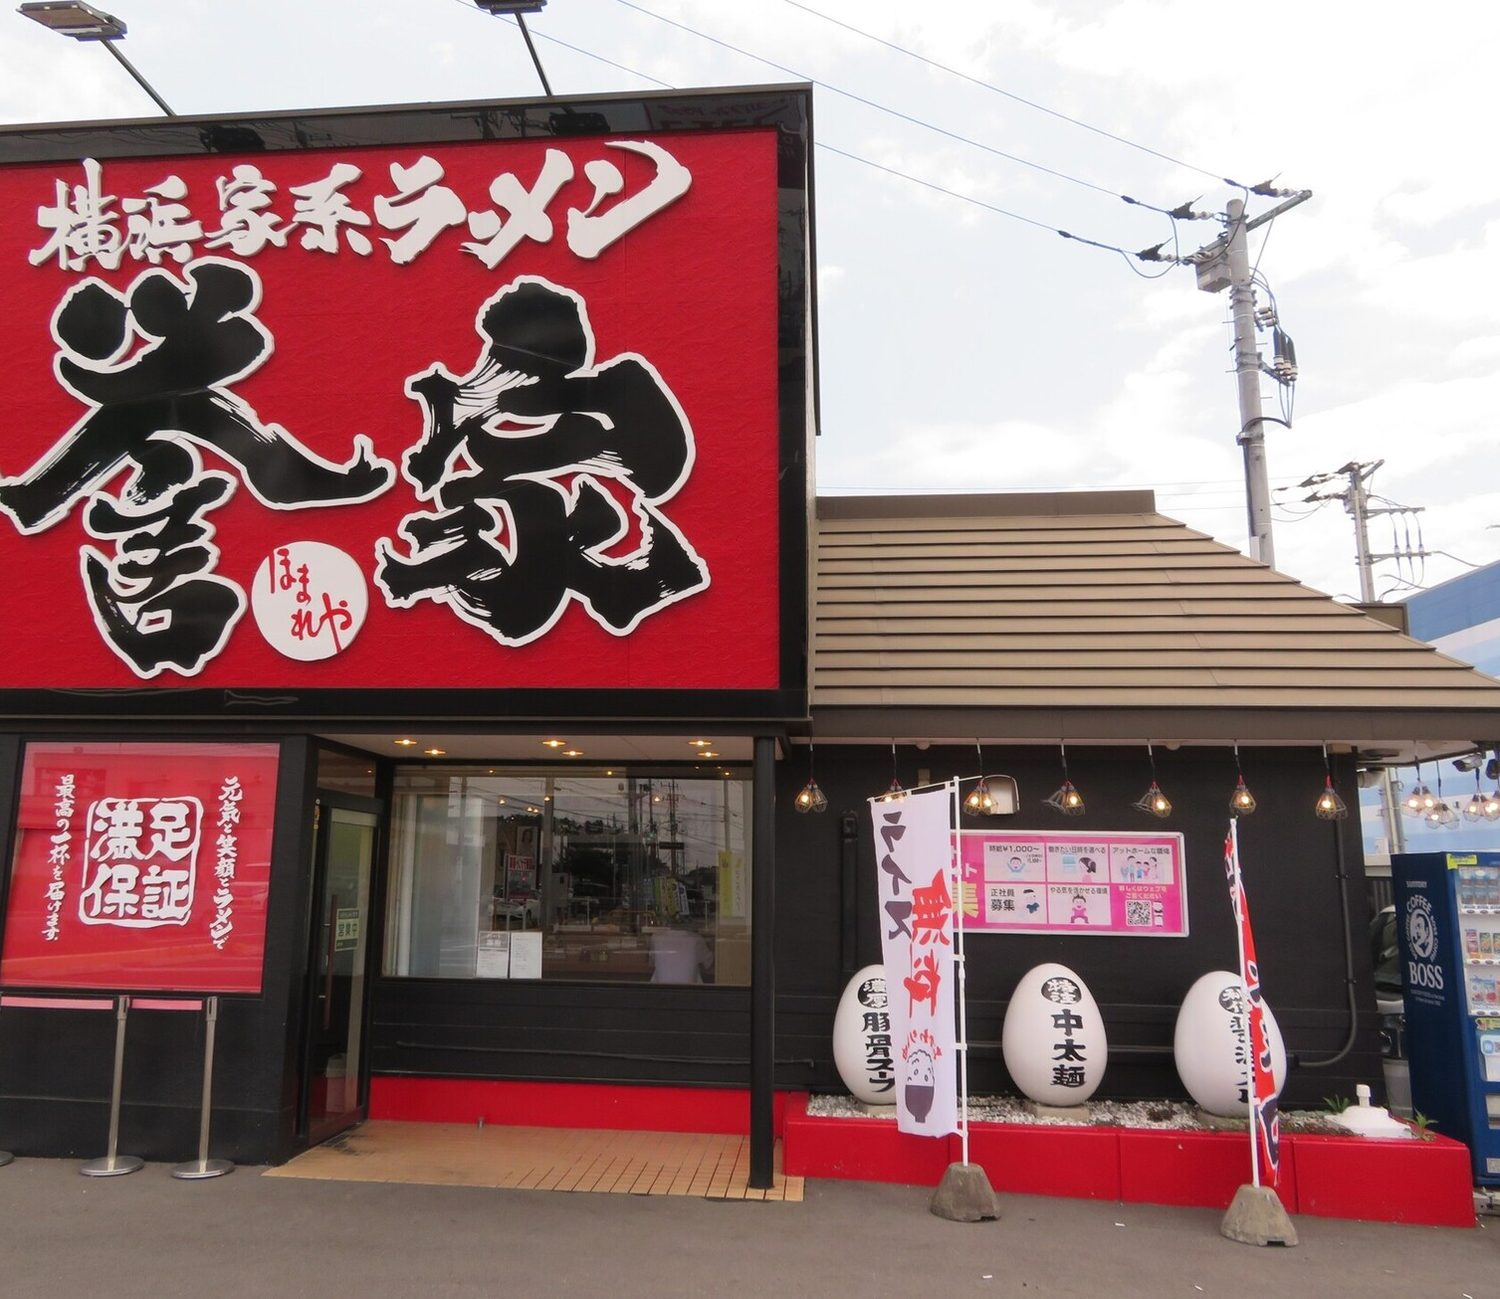
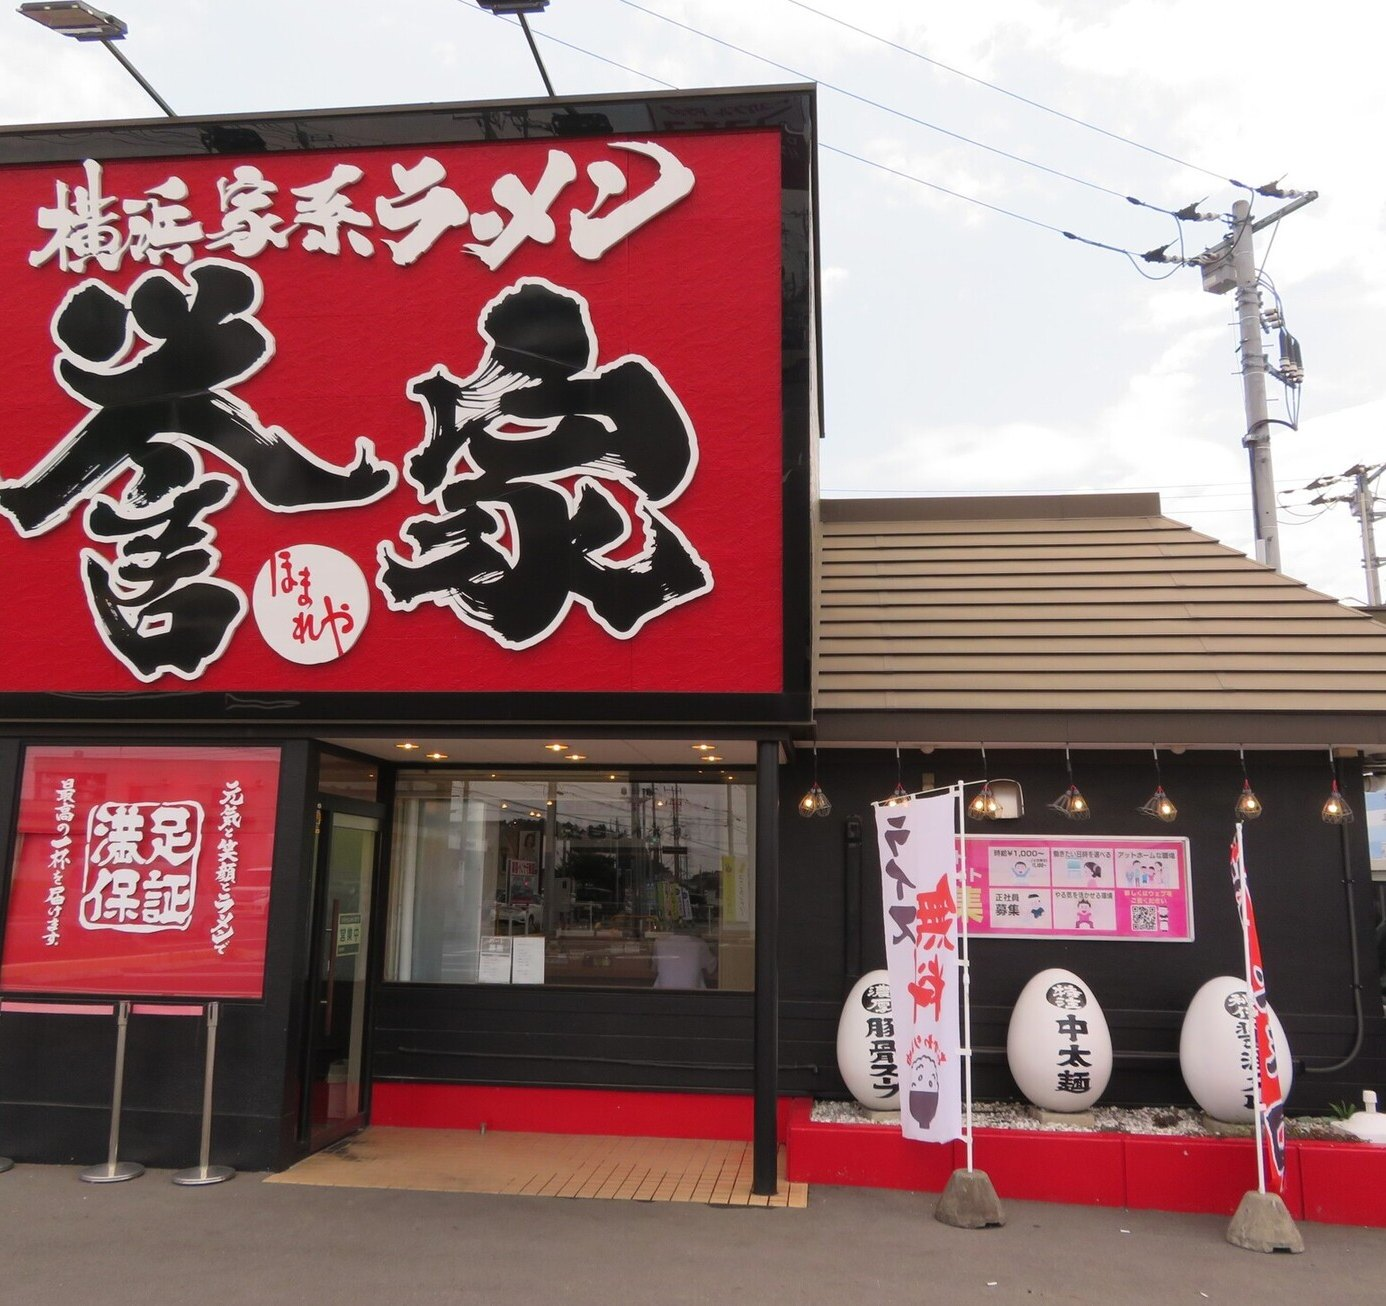
誉家: ヒーローの外観写真を本文の幅で止め、重ねていた小さな写真4枚を外した

diff --git a/homareya/index.html b/homareya/index.html
@@ -389,10 +389,10 @@
             var(--bg);
     }
     .hero-grid {
-        display: grid; grid-template-columns: minmax(0, 1fr) minmax(0, 1.02fr);
-        gap: clamp(24px, 4vw, 52px); align-items: center;
+        display: grid; grid-template-columns: minmax(0, 1fr) minmax(0, .94fr);
+        gap: clamp(24px, 4vw, 56px); align-items: stretch;
     }
-    .hero-copy { display: flex; flex-direction: column; align-items: flex-start; }
+    .hero-copy { display: flex; flex-direction: column; align-items: flex-start; justify-content: center; }
     .hero-title {
         font-family: var(--font-head); font-weight: 800;
         font-size: clamp(2.15rem, 8.6vw, 3.6rem); line-height: 1.24; letter-spacing: .02em;
@@ -417,33 +417,19 @@
     .chip b { color: var(--ink); font-weight: 700; }
     .hero-caution { margin-top: 14px; font-size: .84rem; color: var(--dim); max-width: 30em; }
     .hero .status-chip { background: var(--surface); box-shadow: var(--shadow-soft); }
+    .hero .status-chip + .eyebrow { margin-top: 18px; }
 
-    /* --- ヒーローの写真：外観を主役に、器は帯で添える ------------------------- */
+    /* --- ヒーローの写真：外観を1枚だけ、文章と同じ高さで ---------------------- */
     /* 店を探しているお客様がいちばん先に照らし合わせるのは看板と入口なので、
-       いちばん大きい面を外観にあて、料理は下に小さく重ねる。
-       写真はコンテナの右端から画面の右端まで抜く（body に overflow-x:hidden があるので安全）。 */
-    /* コンテナの右端から画面の右端までの距離。%を使うと段の幅を基準にしてしまうので、
-       画面幅とコンテナ幅だけで出す（横幅が狭いときは左右の余白と同じ値になる） */
-    .hero { --bleed: max(var(--pad-inner), calc((100vw - var(--maxw)) / 2)); }
-    .hero-shot { position: relative; margin-right: calc(-1 * var(--bleed)); }
-    .hero-shot .shot-frame {
-        height: clamp(430px, 66svh, 620px);
-        border-radius: var(--radius) 0 0 var(--radius);
-        border-right: 0;
-    }
-    /* 右端の自販機と電柱を落として、看板と入口を面の真ん中に置く */
-    .hero-shot .shot-frame img { object-position: 42% 54%; }
-
-    .hero-rail { position: absolute; left: clamp(-34px, -2.4vw, -14px); bottom: 20px;
-                 display: flex; gap: 10px; }
-    .hero-rail li { line-height: 0; }
-    .hero-rail img {
-        width: clamp(74px, 7.2vw, 104px); height: auto; aspect-ratio: 1;
-        object-fit: cover; border-radius: 10px;
-        border: 3px solid var(--bg); box-shadow: var(--shadow);
-    }
-    /* 卓上写真は上半分に赤黄のPOPが入るので、下の調味料側を見せる */
-    .hero-rail .rail-tab { object-position: 50% 100%; }
+       外観を1枚だけ置く。
+       ★写真の右端は本文の幅（--maxw）でそろえる。画面の右端まで抜くと、
+         広い画面ほど写真だけが伸びて見え、左の文章との釣り合いが崩れる。
+       高さは左の文章の段に合わせて伸ばし、上下の切り口を文章とそろえる。 */
+    .hero-shot { position: relative; display: flex; }
+    .hero-shot .shot-frame { flex: 1 1 auto; min-height: clamp(400px, 58svh, 552px); }
+    /* 段が縦長になったぶん左右が切れる。看板の「横」から欠けないよう左に寄せ、
+       切るのは右端の自販機と電柱のほうにする */
+    .hero-shot .shot-frame img { object-position: 8% 50%; }
 
     @media (max-width: 900px) {
         .hero-grid { display: flex; flex-direction: column; align-items: stretch; }
@@ -452,19 +438,12 @@
         .hero .eyebrow     { order: 2; margin-top: 16px; }
         .hero-title        { order: 3; }
         .hero-yomi         { order: 4; }
-        .hero-shot         { order: 5; margin-top: 22px; margin-right: 0; }
+        .hero-shot         { order: 5; margin-top: 22px; }
         .hero-lead         { order: 6; margin-top: 22px; max-width: none; }
         .hero-chips        { order: 7; }
         .hero-caution      { order: 8; }
         .hero-actions      { order: 9; }
-        .hero-shot .shot-frame {
-            height: auto; aspect-ratio: 4 / 3;
-            border-radius: var(--radius); border-right: 1px solid var(--line-strong);
-        }
-        /* 画面が狭いと重ねた帯が外観を隠すので、下に並べ直す */
-        .hero-rail { position: static; margin-top: 10px; gap: 8px; }
-        .hero-rail li { flex: 1 1 0; }
-        .hero-rail img { width: 100%; }
+        .hero-shot .shot-frame { min-height: 0; aspect-ratio: 4 / 3; }
     }
     @media (max-width: 620px) {
         .hero-actions .btn { width: 100%; }
@@ -843,19 +822,9 @@
 
         <div class="hero-shot">
             <div class="photo-frame shot-frame">
-                <img src="img/hero-gaikan.jpg" alt="赤い看板を掲げた誉家の外観と入口" width="1500" height="1299"
+                <img src="img/hero-gaikan.jpg" alt="赤い看板を掲げた誉家の外観と入口" width="1386" height="1306"
                      loading="eager" fetchpriority="high" decoding="async">
             </div>
-            <ul class="hero-rail">
-                <li><img src="img/hero-men.jpg" alt="丼から箸で持ち上げた太めの麺" width="1053" height="1400"
-                         loading="lazy" decoding="async"></li>
-                <li><img src="img/hero-special.jpg" alt="チャーシュー二枚、味玉、うずらの卵、ほうれん草、海苔をのせた一杯" width="1020" height="836"
-                         loading="lazy" decoding="async"></li>
-                <li><img class="rail-tab" src="img/hero-table.jpg" alt="卓上に並ぶ調味料の瓶と壁の品書き" width="1000" height="750"
-                         loading="lazy" decoding="async"></li>
-                <li><img src="img/hero-gyoza.jpg" alt="白い皿に六個並べて焼き上げた餃子" width="1000" height="750"
-                         loading="lazy" decoding="async"></li>
-            </ul>
         </div>
     </div>
 </section>
